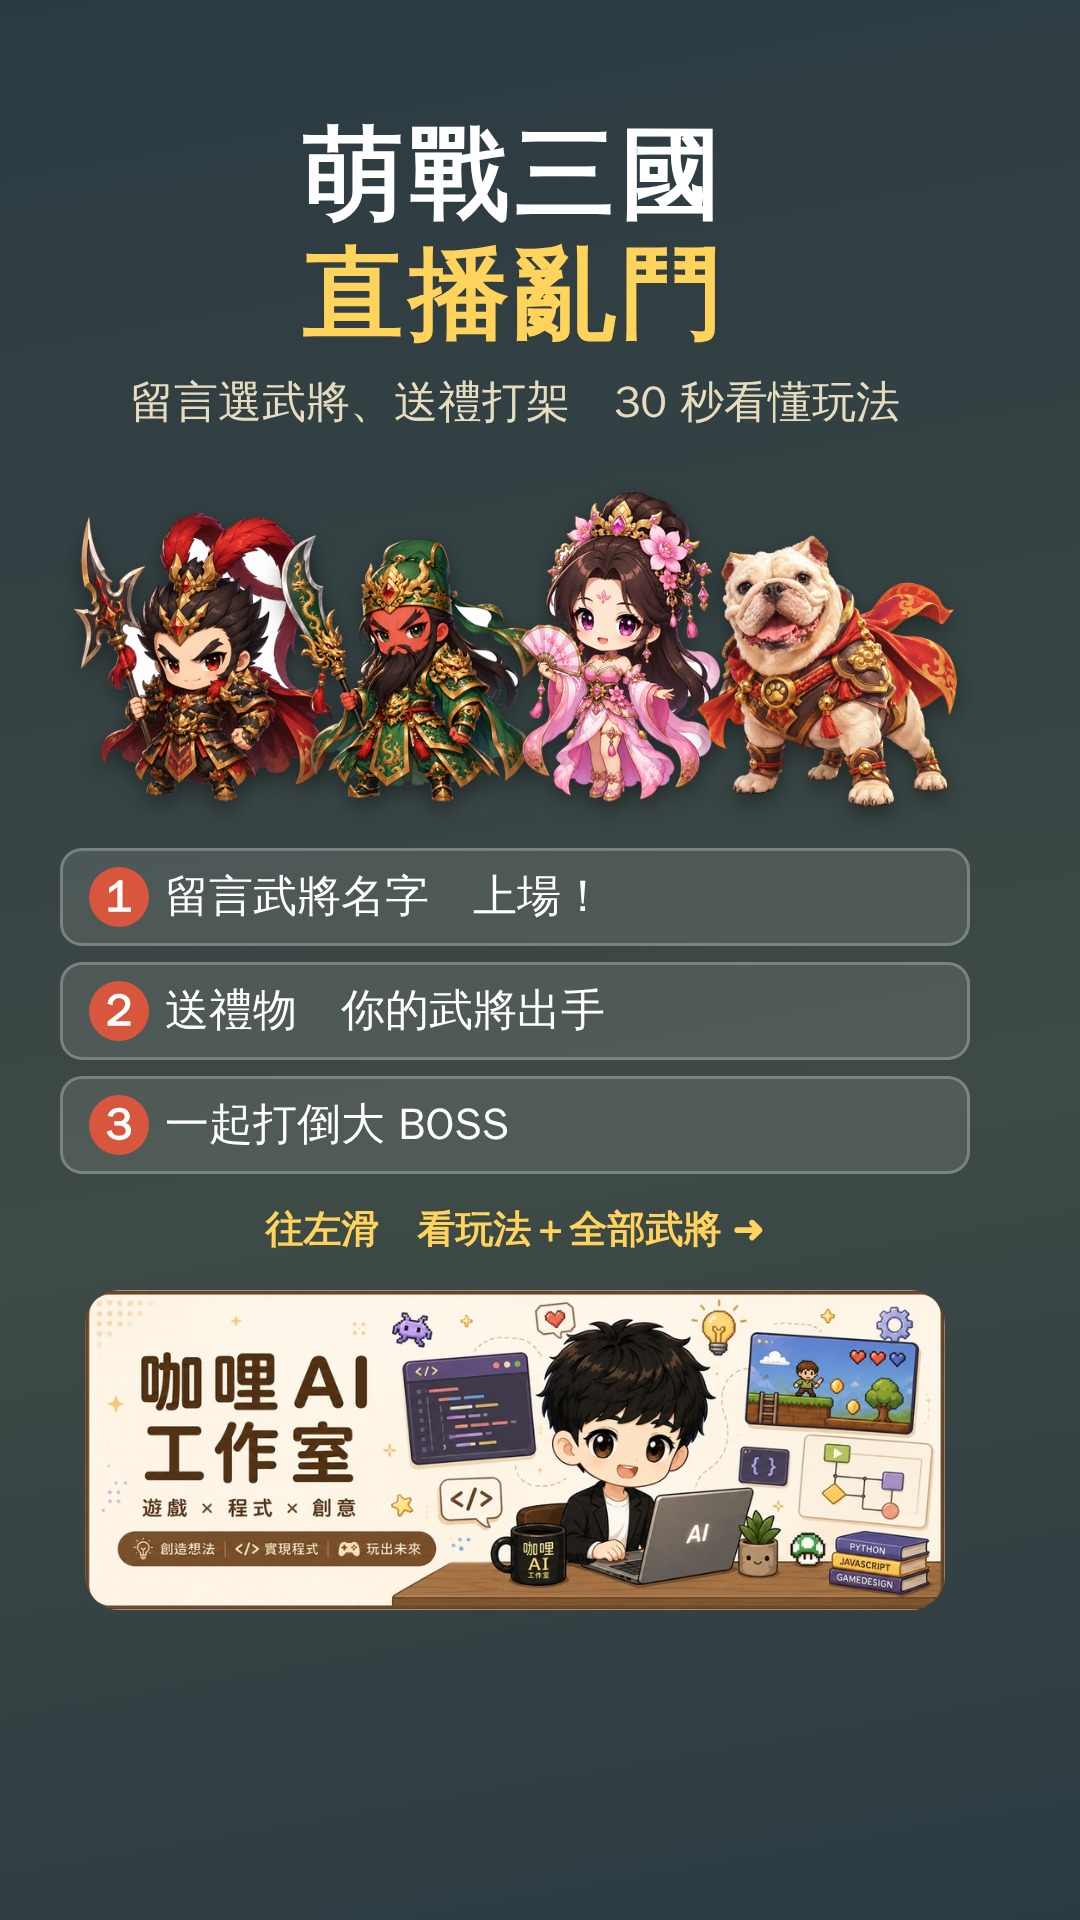
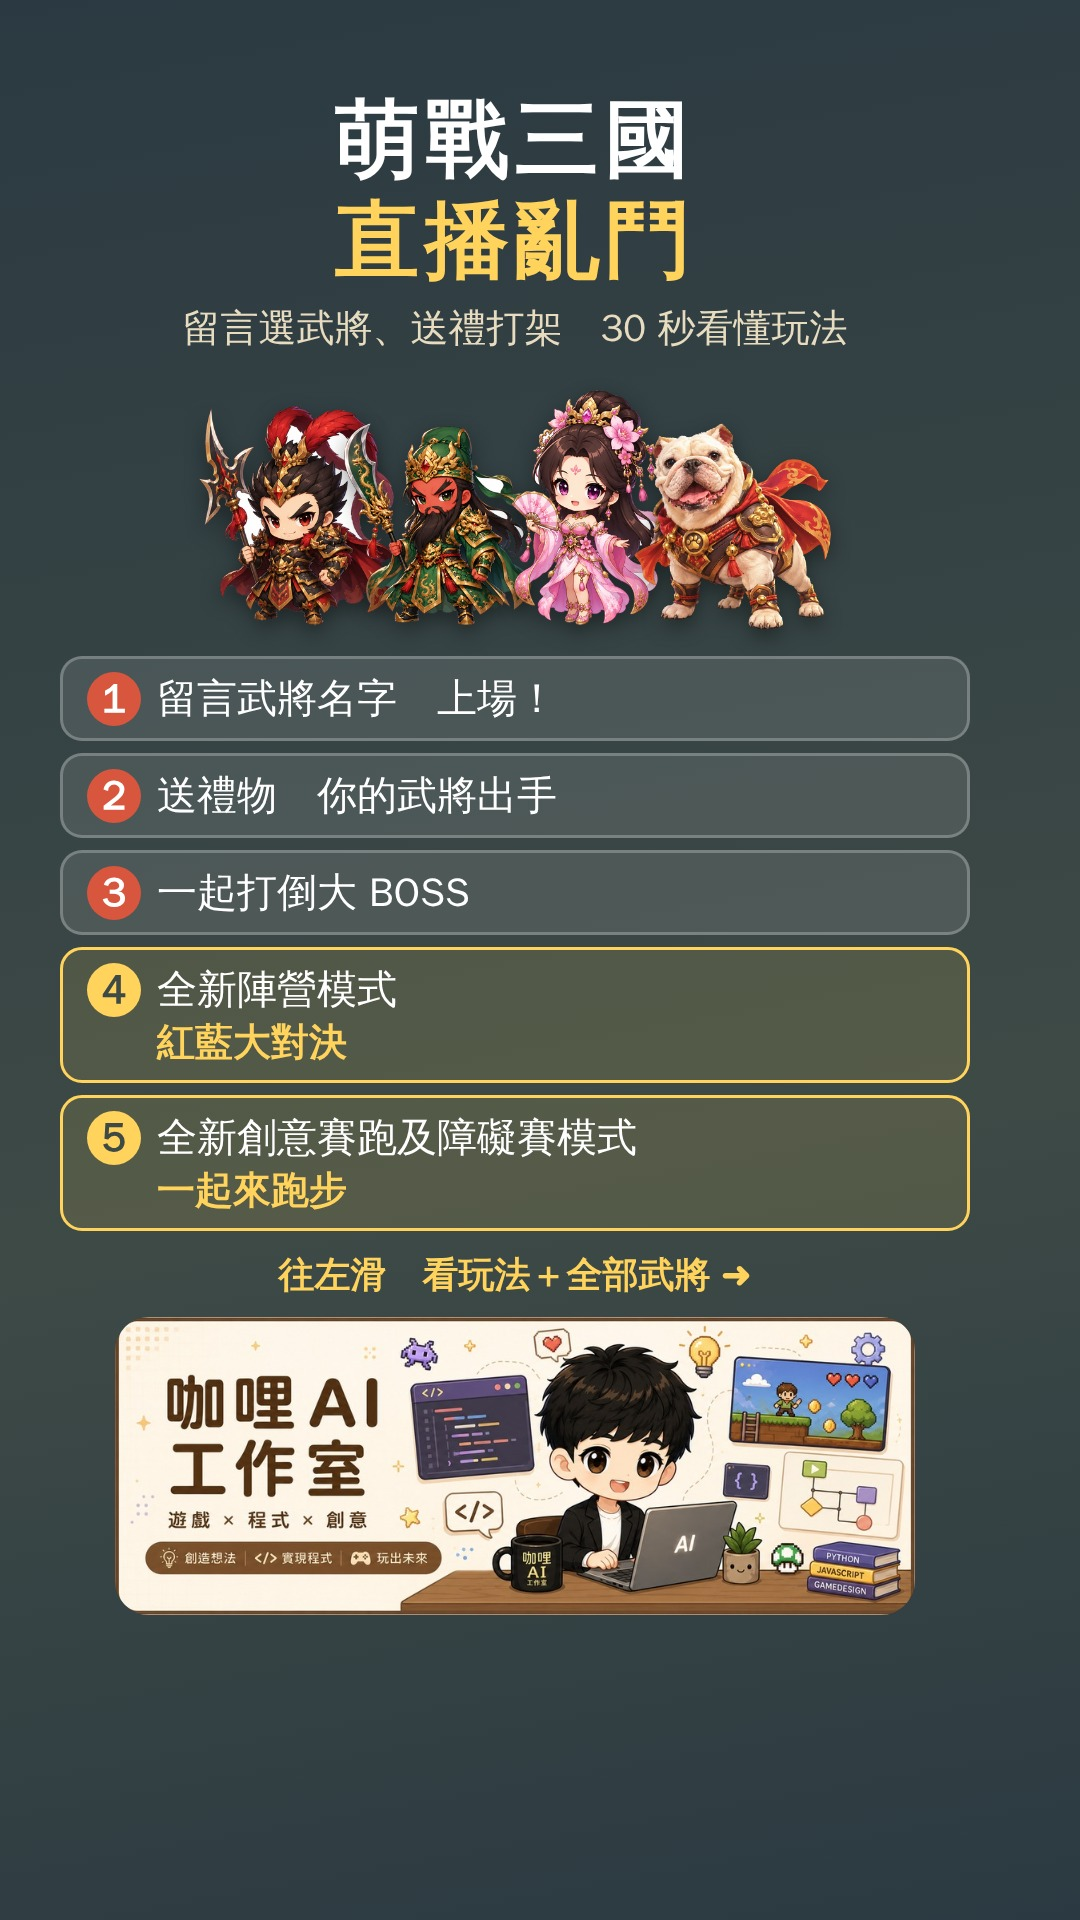
玩法說明第1頁加入陣營模式、賽跑障礙賽兩點
Claude-Session: https://claude.ai/code/session_01J1mi4tQsbQufTfnNbsrTar

Changed region(s): [[0.0306, 0.0312, 0.9167, 0.8438]]

diff --git a/tools/make_howto.js b/tools/make_howto.js
@@ -61,13 +61,14 @@ body { background: #888; font-family: "Noto Sans TC","Microsoft JhengHei","PingF
 .boss .b strong { display: block; font-size: 40px; margin-top: 6px; } .boss .b em { font-style: normal; color: #ffd35c; font-size: 40px; font-weight: 900; }
 .buffs { display: flex; flex-direction: column; gap: 14px; margin-top: 18px; }
 .buff { border-radius: 22px; padding: 22px 30px; font-size: 42px; color: #fff; line-height: 1.45; } .buff b { font-size: 48px; }
-.cover { background: linear-gradient(170deg,#2b3a42,#3E4A46 60%,#2b3a42); color: #fff; padding: 110px 110px 660px 60px; text-align: center; justify-content: center; }
-.cover h1 { font-size: 100px; font-weight: 900; letter-spacing: 6px; line-height: 1.2; } .cover h1 b { color: #ffd35c; display: block; }
-.cover .sub { font-size: 44px; color: #e8dcc0; margin-top: 18px; }
-.cover .row { display: flex; justify-content: center; margin: 46px 0 30px; } .cover .row img { height: 330px; margin: 0 -26px; filter: drop-shadow(0 8px 10px rgba(0,0,0,.4)); }
-.steps { display: flex; flex-direction: column; gap: 16px; margin-top: 10px; text-align: left; }
-.steps div { background: rgba(255,255,255,.1); border: 3px solid rgba(255,255,255,.25); border-radius: 22px; padding: 16px 26px; font-size: 44px; font-weight: 700; }
-.steps i { font-style: normal; display: inline-block; width: 60px; height: 60px; line-height: 60px; text-align: center; border-radius: 50%; background: #D9563E; margin-right: 16px; font-weight: 900; }
+.cover { background: linear-gradient(170deg,#2b3a42,#3E4A46 60%,#2b3a42); color: #fff; padding: 100px 110px 630px 60px; text-align: center; justify-content: center; }
+.cover h1 { font-size: 84px; font-weight: 900; letter-spacing: 6px; line-height: 1.2; } .cover h1 b { color: #ffd35c; display: block; }
+.cover .sub { font-size: 38px; color: #e8dcc0; margin-top: 12px; }
+.cover .row { display: flex; justify-content: center; margin: 26px 0 20px; } .cover .row img { height: 250px; margin: 0 -26px; filter: drop-shadow(0 8px 10px rgba(0,0,0,.4)); }
+.steps { display: flex; flex-direction: column; gap: 12px; margin-top: 6px; text-align: left; }
+.steps div { background: rgba(255,255,255,.1); border: 3px solid rgba(255,255,255,.25); border-radius: 22px; padding: 12px 24px; font-size: 40px; font-weight: 700; }
+.steps .new { border-color: #ffd35c; background: rgba(255,211,92,.12); } .steps .new i { background: #ffd35c; color: #3E4A46; } .steps em { font-style: normal; display: block; margin-left: 70px; font-size: 38px; color: #ffd35c; font-weight: 900; }
+.steps i { font-style: normal; display: inline-block; width: 54px; height: 54px; line-height: 54px; text-align: center; border-radius: 50%; background: #D9563E; margin-right: 16px; font-weight: 900; }
 .fac-head { display: flex; align-items: center; gap: 22px; margin-bottom: 18px; }
 .fac-head .seal { width: 120px; height: 120px; border-radius: 26px; background: var(--c); color: #fff; font-size: 84px; font-weight: 900; display: flex; align-items: center; justify-content: center; box-shadow: 0 5px 0 rgba(0,0,0,.2); }
 .fac-head .tt { font-size: 66px; font-weight: 900; color: var(--c); line-height: 1.1; } .fac-head .tt small { display: block; font-size: 36px; color: #8C9490; font-weight: 700; margin-top: 6px; }
@@ -84,10 +85,10 @@ body { background: #888; font-family: "Noto Sans TC","Microsoft JhengHei","PingF
 .race3 { display: flex; gap: 14px; margin-top: 16px; } .race3 div { flex: 1; border-radius: 18px; padding: 16px 10px; text-align: center; color: #fff; font-size: 38px; font-weight: 900; line-height: 1.35; } .race3 small { display: block; font-size: 30px; font-weight: 700; opacity: .95; }
 .tracks10 { display: grid; grid-template-columns: repeat(5, 1fr); gap: 10px; margin-top: 18px; } .tc { background: #fff; border-radius: 16px; padding: 8px 4px 6px; text-align: center; min-width: 0; } .tc svg { width: 100%; height: auto; display: block; } .tc span { display: block; font-size: 23px; font-weight: 700; line-height: 1.2; }
 .gates { display: flex; gap: 10px; margin-top: 18px; } .gt { flex: 1; background: #fff; border-radius: 16px; padding: 10px 4px 8px; text-align: center; min-width: 0; } .gt i { display: block; font-style: normal; font-size: 64px; line-height: 1.1; } .gt b { display: block; font-size: 30px; } .gt span { display: block; font-size: 30px; font-weight: 900; color: #D9563E; }
-.brand { display: flex; align-items: center; justify-content: center; gap: 22px; position: absolute; left: 60px; right: 110px; bottom: 310px; }
-.brand img { width: 860px; border-radius: 34px; display: block; }
+.brand { display: flex; align-items: center; justify-content: center; gap: 22px; position: absolute; left: 60px; right: 110px; bottom: 305px; }
+.brand img { width: 800px; border-radius: 34px; display: block; }
 .brand span { font-size: 44px; font-weight: 900; color: #fff; letter-spacing: 3px; } .brand small { display: block; font-size: 28px; font-weight: 700; color: #e8dcc0; letter-spacing: 1px; margin-top: 4px; }
-.swipe { margin-top: 30px; font-size: 38px; color: #ffd35c; font-weight: 900; }
+.swipe { margin-top: 20px; font-size: 36px; color: #ffd35c; font-weight: 900; }
 `;
 const top = n => `<div class="top"><div class="t">萌戰三國・<b>直播亂鬥</b></div><div class="pg">${n}/${TOTAL}</div></div>`;
 
@@ -96,7 +97,7 @@ const slides = [
   <h1>萌戰三國<b>直播亂鬥</b></h1>
   <div class="sub">留言選武將、送禮打架　30 秒看懂玩法</div>
   <div class="row"><img src="${img('lvbu.png')}"><img src="${img('guanyu.png')}"><img src="${img('diaochan.png')}"><img src="${img('michelin.png')}"></div>
-  <div class="steps"><div><i>1</i>留言武將名字　上場！</div><div><i>2</i>送禮物　你的武將出手</div><div><i>3</i>一起打倒大 BOSS</div></div>
+  <div class="steps"><div><i>1</i>留言武將名字　上場！</div><div><i>2</i>送禮物　你的武將出手</div><div><i>3</i>一起打倒大 BOSS</div><div class="new"><i>4</i>全新陣營模式<em>紅藍大對決</em></div><div class="new"><i>5</i>全新創意賽跑及障礙賽模式<em>一起來跑步</em></div></div>
   <div class="swipe">往左滑　看玩法＋全部武將 ➜</div>
   <div class="brand"><img src="${brand}"></div></div>`,
 

diff --git a/CLAUDE.md b/CLAUDE.md
@@ -323,7 +323,7 @@
 | `bridge/啟動.bat` | Windows 一鍵啟動橋接程式 |
 | `tools/make_roster.js` | 產生武將名冊圖片（發給觀眾看有哪些武將可選），輸出到 `roster/` |
 | `roster/` | 武將名冊圖片：全武將總覽圖一張（橫式）＋魏蜀吳群萌各一張。武將資料或圖有變就重跑 `node tools/make_roster.js`（另有 `全武將清單.jpg`（只有陣營、武將名稱、技能名稱的直式 1080x1920（跟玩法說明同大小）純文字一覽表，一個陣營一塊、每排 5 位、武將名字放大，沒有武將圖，2026-11-16 咖哩要求）；全武將名冊是**一張橫式總覽圖**，一個陣營一排，不是長圖，2026-11-16 咖哩要求）；另有 `玩法說明_1～13.jpg`（`node tools/make_howto.js`） |
-| `tools/make_howto.js` | 產生「玩法說明」圖片（TikTok 圖文貼文用）：`roster/玩法說明_1.jpg`～`_13.jpg`，每張 1080x1920（9:16），照順序上傳當輪播圖：**1 封面（最下面放咖哩AI工作室橫幅圖（自帶文字，圖是 `assets/brand/curry_ai_studio_banner.jpg`，已裁掉白邊），位置避開 TikTok 下方 300px 遮擋區）、2～4 玩法、5 陣營模式、6 賽跑模式（附 10 種賽道小圖，形狀與顏色直接讀 `js/race-tracks.js`）、7 障礙賽（5 道關卡與過關率直接讀 `config.race.hurdle`）、8 障礙賽 10 種專屬賽道小圖（讀 `config.race.hurdleTracks`）、9～13 蜀／魏／吳／群／萌 五個陣營的武將圖**（每個武將附名稱和技能名，資料讀 `data/heroes.js`＋`data/extra-heroes.js`，新增武將或改技能名後重跑就會更新；張數＝8＋有武將的陣營數）。**版面留了 TikTok 的安全區**（上 130、下 300、右 110px 不放重點，標題文字和愛心按鈕會蓋住）。可用 `--attack 玫瑰 --aoe 煙火 --skill 皇冠 --heal 愛心` 填上主播指定的禮物名（沒給就寫「主播公布」）；數字（60 秒復活、99 級、BOSS 鑽石數）寫在腳本裡，改了 `js/config.js` 要回頭改 |
+| `tools/make_howto.js` | 產生「玩法說明」圖片（TikTok 圖文貼文用）：`roster/玩法說明_1.jpg`～`_13.jpg`，每張 1080x1920（9:16），照順序上傳當輪播圖：**1 封面（中間有 5 點：1 留言上場、2 送禮、3 打 BOSS、4 全新陣營模式 紅藍大對決、5 全新創意賽跑及障礙賽模式 一起來跑步；最下面放咖哩AI工作室橫幅圖（自帶文字，圖是 `assets/brand/curry_ai_studio_banner.jpg`，已裁掉白邊），位置避開 TikTok 下方 300px 遮擋區）、2～4 玩法、5 陣營模式、6 賽跑模式（附 10 種賽道小圖，形狀與顏色直接讀 `js/race-tracks.js`）、7 障礙賽（5 道關卡與過關率直接讀 `config.race.hurdle`）、8 障礙賽 10 種專屬賽道小圖（讀 `config.race.hurdleTracks`）、9～13 蜀／魏／吳／群／萌 五個陣營的武將圖**（每個武將附名稱和技能名，資料讀 `data/heroes.js`＋`data/extra-heroes.js`，新增武將或改技能名後重跑就會更新；張數＝8＋有武將的陣營數）。**版面留了 TikTok 的安全區**（上 130、下 300、右 110px 不放重點，標題文字和愛心按鈕會蓋住）。可用 `--attack 玫瑰 --aoe 煙火 --skill 皇冠 --heal 愛心` 填上主播指定的禮物名（沒給就寫「主播公布」）；數字（60 秒復活、99 級、BOSS 鑽石數）寫在腳本裡，改了 `js/config.js` 要回頭改 |
 | `tools/sync_from_curry_games.py` | 從 Curry_Games 同步資料與全身圖 |
 
 ## 工作方式
